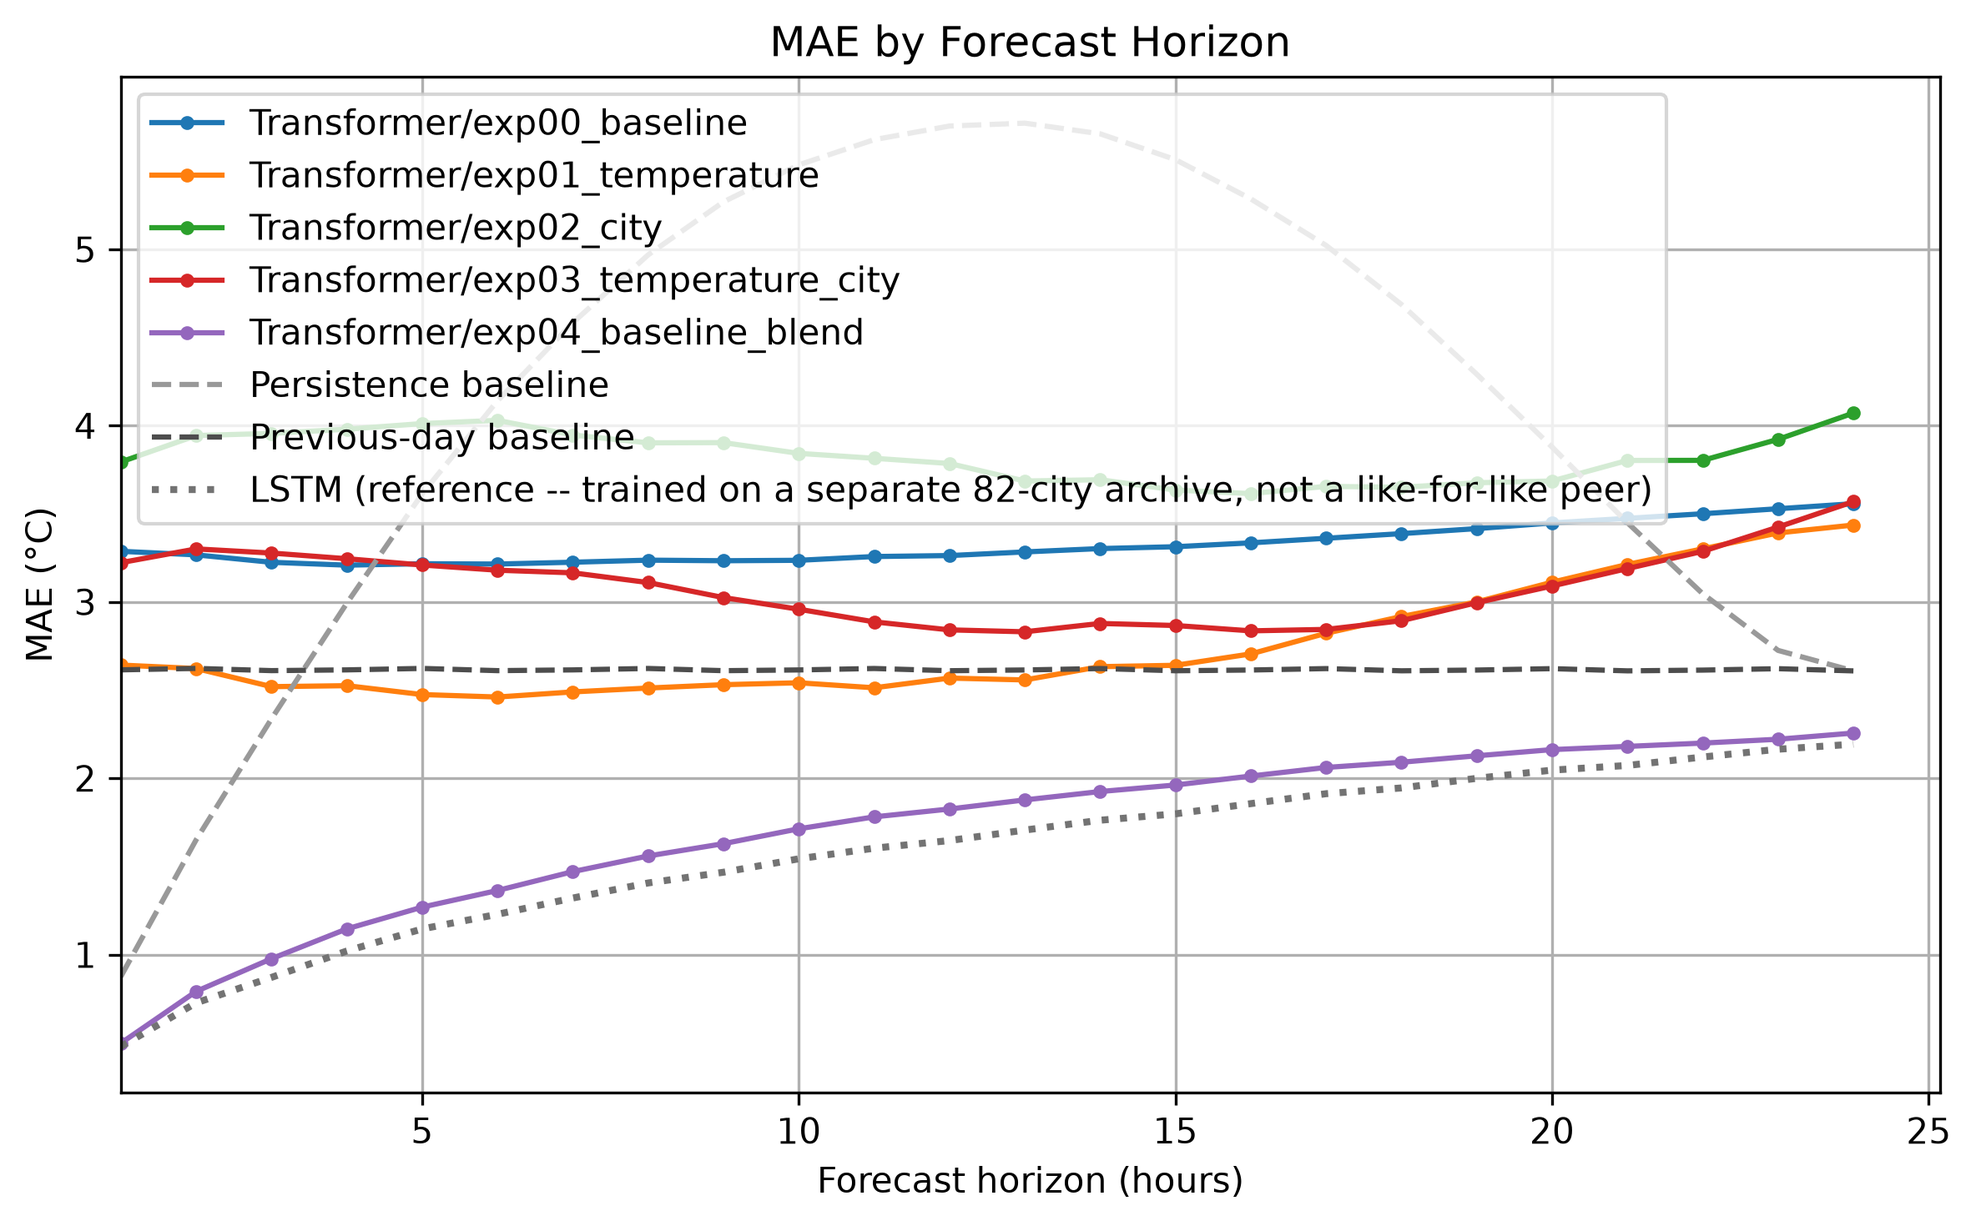
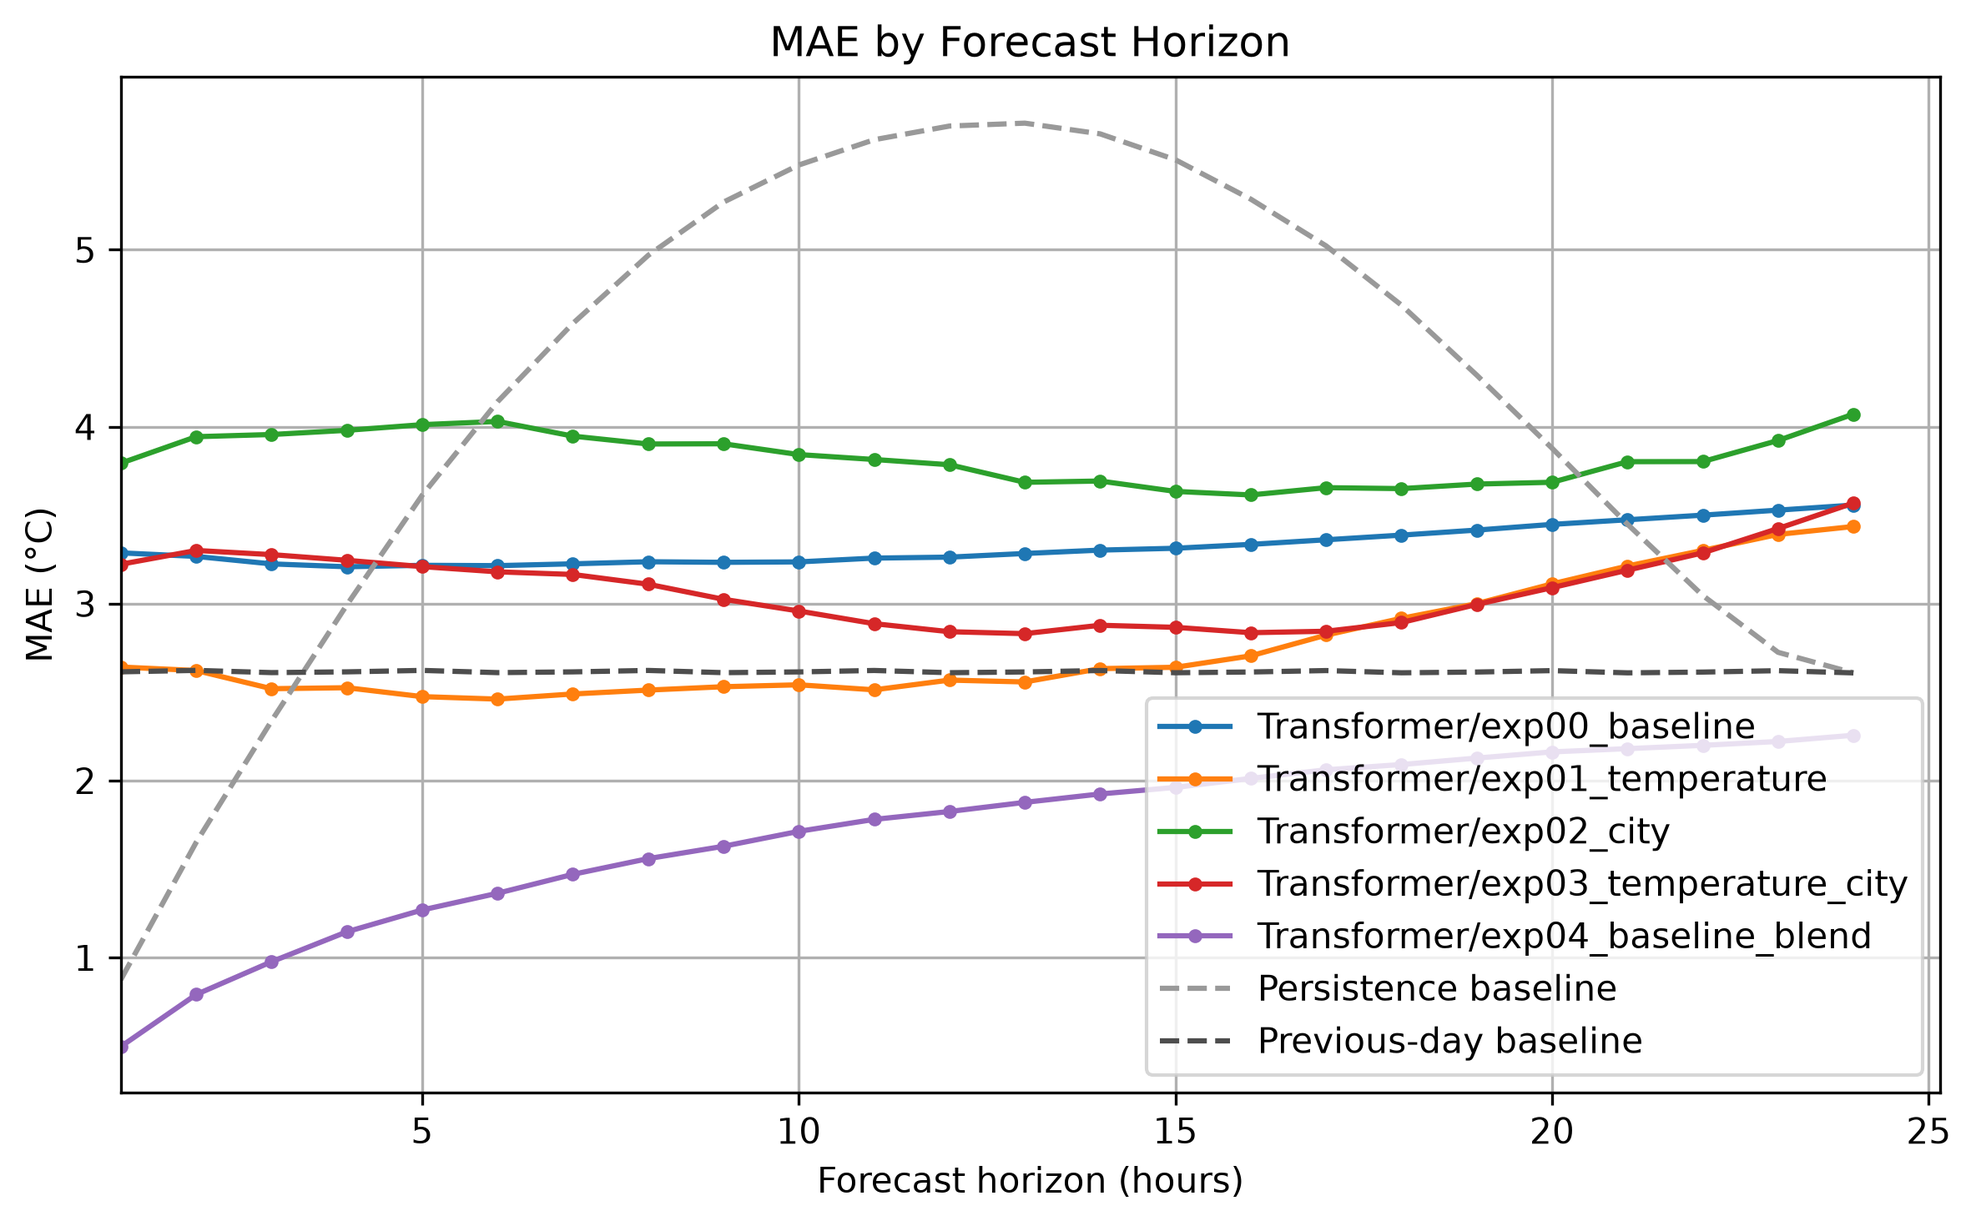
Let compare() target specific runs with custom labels, handle old-format LSTM metrics
compare()'s model_names entries now accept "Model/name@<run>" for a
specific experiment directory and (entry, label) tuples for a
caller-chosen legend label, so the same model can be charted multiple
times -- e.g. several of Larry's own LSTM runs side by side. Labels
default to the model name.

load_row() now handles LSTM runs that predate the improved_model/
mae_by_hour schema: their scalar mae/rmse still appear in the summary
table and bar chart, they're cleanly skipped from the by-horizon overlay
with one explanatory line, and a single old-format entry no longer aborts
the whole comparison.

_load_reference_mae_by_hour() no longer bakes editorial wording about
training-set size into the legend label -- reference_metrics now accepts
a (path, label) tuple so the caller supplies that context instead.
include_baselines=True makes the persistence/previous-day dashed lines
the default (still asserted consistent across entries), and
DEFAULT_REFERENCE_METRICS is now None so compare_all() never pulls in
cross-track material without it being asked for explicitly.

Regenerates the transformer_ablation overlay (five configs plus the two
baselines only, no LSTM) and re-executes notebooks/results.ipynb.
Documents the new entry syntax in the README.

diff --git a/src/models/common/compare.py b/src/models/common/compare.py
@@ -1,13 +1,20 @@
-"""Builds a side-by-side LSTM vs Transformer metrics comparison for the report.
+"""Builds a side-by-side metrics comparison for the report.
 
-Loads each model's most recent experiment (the one with the highest timestamp
-that contains a metrics.json), writes a comparison table + bar chart to its
-own subfolder under models/comparison/, named after the models compared.
+Loads one run per entry -- by default each model's most recent run, or a
+caller-chosen specific run -- and writes a comparison table + bar chart to
+its own subfolder under models/comparison/, named after the entries
+compared.
 
-Every metrics.json in this project (both tracks) is nested under an
+Every current-format metrics.json (both tracks) is nested under an
 "improved_model" key holding overall_mae/overall_rmse/mae_by_hour/... (see
 src.models.common.evaluation.evaluate_and_save) -- load_row reads that
-shape, not a flat one.
+shape. Older LSTM runs predate this schema (see load_row's old_format
+branch) and are handled gracefully rather than rejected.
+
+Entry syntax accepted by compare()'s model_names list:
+    "Transformer/exp04_baseline_blend"          -- latest run, label = model name
+    "LSTM@2026-08-02_07-36-51"                   -- that specific run, label = model name
+    ("LSTM@2026-08-02_07-36-51", "LSTM final")   -- specific run, caller-chosen label
 """
 
 import json
@@ -27,16 +34,15 @@ MODEL_NAMES = None
 
 OUTPUT_DIR = MODEL_DIR / "comparison"
 
-# The saved LSTM's evaluation on the same 16-city test split every Transformer
-# experiment uses -- a fair per-horizon reference, even though the LSTM model
-# itself was originally trained on a separate, larger 82-city archive.
-DEFAULT_REFERENCE_METRICS = OUTPUT_DIR / "lstm_on_shared_test_split" / "metrics.json"
+# Cross-track material (e.g. the LSTM's evaluation on the shared test split)
+# is never pulled in automatically -- pass reference_metrics explicitly.
+DEFAULT_REFERENCE_METRICS = None
 
 OUTPUT_DIR.mkdir(parents=True, exist_ok=True)
 
 
-def _slugify(model_name):
-    return model_name.replace("/", "-")
+def _slugify(text):
+    return text.replace("/", "-").replace("@", "-")
 
 
 def discover_model_names():
@@ -101,17 +107,52 @@ def find_cached_experiment(model_name, config):
     return None
 
 
-def load_row(model_name):
-    experiment_dir = latest_experiment_with_metrics(model_name)
+def _parse_entry(entry):
+    """Normalizes one compare() model_names entry into (model_name,
+    experiment_id, label).
+
+    Accepted forms:
+        "Transformer/exp04_baseline_blend"          -- latest run, label = model name
+        "LSTM@2026-08-02_07-36-51"                   -- that specific run, label = model name
+        ("LSTM@2026-08-02_07-36-51", "LSTM final")   -- specific run, caller-chosen label
+
+    experiment_id is None when unspecified, meaning "resolve to the latest
+    run with a metrics.json" (see latest_experiment_with_metrics). This is
+    what lets multiple entries reference the same model -- e.g. two
+    different runs of "LSTM" -- as long as each is given its own label."""
+    if isinstance(entry, tuple):
+        entry_str, label = entry
+    else:
+        entry_str, label = entry, None
+
+    model_name, _, experiment_id = entry_str.partition("@")
+    experiment_id = experiment_id or None
+
+    if label is None:
+        label = model_name
+
+    return model_name, experiment_id, label
+
+
+def resolve_experiment_dir(model_name, experiment_id=None):
+    if experiment_id is None:
+        return latest_experiment_with_metrics(model_name)
+
+    experiment_dir = MODEL_DIR / model_name / "experiments" / experiment_id
+    return experiment_dir if (experiment_dir / "metrics.json").exists() else None
+
+
+def load_row(model_name, experiment_id=None, label=None):
+    experiment_dir = resolve_experiment_dir(model_name, experiment_id)
+    identifier = f"{model_name}@{experiment_id}" if experiment_id else model_name
+    label = label or model_name
 
     if experiment_dir is None:
-        print(f"No experiment with metrics.json found for {model_name}, skipping.")
+        print(f"No experiment with metrics.json found for {identifier}, skipping.")
         return None
 
     with open(experiment_dir / "metrics.json") as f:
         metrics = json.load(f)
-
-    improved_model = metrics.get("improved_model", {})
 
     epochs_trained = None
 
@@ -120,40 +161,68 @@ def load_row(model_name):
     if history_file.exists():
         epochs_trained = len(pd.read_csv(history_file))
 
+    if "improved_model" in metrics:
+        improved_model = metrics["improved_model"]
+        return {
+            "model": label,
+            "experiment": experiment_dir.name,
+            "mae": improved_model.get("overall_mae"),
+            "rmse": improved_model.get("overall_rmse"),
+            "mae_by_hour": improved_model.get("mae_by_hour"),
+            "persistence_mae_by_hour": metrics.get("persistence_baseline", {}).get("mae_by_hour"),
+            "previous_day_mae_by_hour": metrics.get("previous_day_baseline", {}).get("mae_by_hour"),
+            "epochs_trained": epochs_trained,
+            "old_format": False,
+        }
+
+    # Older LSTM runs predate the improved_model/mae_by_hour schema -- some
+    # are a flat {loss, mae, rmse}, others use different top-level key names
+    # entirely. Either way there's no per-horizon breakdown to overlay, but
+    # whatever scalar mae/rmse exists at the top level still belongs in the
+    # summary table and bar chart.
     return {
-        "model": model_name,
+        "model": label,
         "experiment": experiment_dir.name,
-        "mae": improved_model.get("overall_mae"),
-        "rmse": improved_model.get("overall_rmse"),
-        "mae_by_hour": improved_model.get("mae_by_hour"),
-        "persistence_mae_by_hour": metrics.get("persistence_baseline", {}).get("mae_by_hour"),
-        "previous_day_mae_by_hour": metrics.get("previous_day_baseline", {}).get("mae_by_hour"),
-        "epochs_trained": epochs_trained
+        "mae": metrics.get("mae"),
+        "rmse": metrics.get("rmse"),
+        "mae_by_hour": None,
+        "persistence_mae_by_hour": None,
+        "previous_day_mae_by_hour": None,
+        "epochs_trained": epochs_trained,
+        "old_format": True,
     }
 
 
-def _load_reference_mae_by_hour(reference_metrics):
+def _parse_reference(reference_metrics):
+    """Normalizes compare()'s reference_metrics into (path, label). Accepts
+    a bare path (label defaults to its parent directory's name) or a
+    (path, label) tuple for a caller-chosen label."""
+    if isinstance(reference_metrics, tuple):
+        path, label = reference_metrics
+    else:
+        path, label = reference_metrics, None
+
+    if label is None:
+        label = Path(path).parent.name
+
+    return path, label
+
+
+def _load_reference_mae_by_hour(reference_path):
     """Reads improved_model.mae_by_hour from an external metrics.json (e.g.
-    models/comparison/lstm_on_shared_test_split/metrics.json) plus a label
-    built from its model_path, so the overlay can show a model that isn't
-    one of `model_names`'s own experiments."""
-    with open(reference_metrics) as f:
+    models/comparison/lstm_on_shared_test_split/metrics.json), so the
+    overlay can show a run that isn't one of `model_names`'s own entries."""
+    with open(reference_path) as f:
         metrics = json.load(f)
 
-    mae_by_hour = metrics.get("improved_model", {}).get("mae_by_hour")
-
-    model_path = metrics.get("model_path")
-    base_name = Path(model_path).parent.parent.name if model_path else Path(reference_metrics).parent.name
-
-    return mae_by_hour, f"{base_name} (reference -- trained on a separate 82-city archive, not a like-for-like peer)"
+    return metrics.get("improved_model", {}).get("mae_by_hour")
 
 
 def _assert_consistent_baseline(baseline_name, mae_by_hour_by_model):
-    """`mae_by_hour_by_model` is {model_name: mae_by_hour}. Every experiment
-    being compared scores this baseline on the same test windows, so their
+    """`mae_by_hour_by_model` is {label: mae_by_hour}. Every entry being
+    compared scores this baseline on the same test windows, so their
     copies must be numerically identical; a mismatch means the runs weren't
-    actually evaluated on the same data, which would silently invalidate
-    the comparison."""
+    actually evaluated on the same data."""
     items = list(mae_by_hour_by_model.items())
     if len(items) < 2:
         return
@@ -163,29 +232,45 @@ def _assert_consistent_baseline(baseline_name, mae_by_hour_by_model):
         if not np.allclose(values, reference_values):
             raise AssertionError(
                 f"{baseline_name}.mae_by_hour differs between '{reference_model}' and "
-                f"'{model_name}' -- these experiments were not evaluated on the same "
+                f"'{model_name}' -- these entries were not evaluated on the same "
                 "test windows, so their metrics cannot be compared."
             )
 
 
-def compare(model_names=MODEL_NAMES, name=None, reference_metrics=None):
-    """`reference_metrics`, if given, is a path to another model's
-    metrics.json (e.g. models/comparison/lstm_on_shared_test_split/metrics.json)
-    whose improved_model.mae_by_hour is added to the by-horizon overlay as a
-    dashed line, labelled as a reference so it isn't mistaken for one of
-    `model_names`'s own experiments."""
+def compare(model_names=MODEL_NAMES, name=None, reference_metrics=None, include_baselines=True):
+    """`model_names` is a list of entries -- see the module docstring for
+    the accepted "Model", "Model@run_id", and (entry, label) forms.
+
+    `include_baselines`, when True (the default), adds the persistence and
+    previous-day baselines to the by-horizon overlay as dashed reference
+    lines, asserting first that every entry's copy of each baseline is
+    numerically identical (see _assert_consistent_baseline). Pass False to
+    omit them.
+
+    `reference_metrics`, if given, is a path to another run's metrics.json
+    (e.g. models/comparison/lstm_on_shared_test_split/metrics.json), or a
+    (path, label) tuple for a caller-chosen legend label -- otherwise the
+    label defaults to the path's parent directory name. Its
+    improved_model.mae_by_hour is added to the overlay as a dashed line, so
+    the overlay can show a run that isn't one of `model_names`'s own
+    entries."""
     if model_names is None:
         model_names = discover_model_names()
 
+    entries = [_parse_entry(entry) for entry in model_names]
+
     rows = [
         row
-        for row in (load_row(model_name) for model_name in model_names)
+        for row in (
+            load_row(model_name, experiment_id, label)
+            for model_name, experiment_id, label in entries
+        )
         if row is not None
     ]
 
     if not rows:
         raise FileNotFoundError(
-            "No experiments with metrics.json found for any model. "
+            "No experiments with metrics.json found for any entry. "
             "Train the LSTM and Transformer models first."
         )
 
@@ -193,24 +278,35 @@ def compare(model_names=MODEL_NAMES, name=None, reference_metrics=None):
         row["model"]: row["mae_by_hour"] for row in rows if row["mae_by_hour"]
     }
 
-    # Baselines must be identical across every experiment being compared --
-    # they're scored on the same test windows -- so this both verifies that
-    # assumption and picks a representative copy to plot.
-    persistence_by_model = {
-        row["model"]: row["persistence_mae_by_hour"] for row in rows if row["persistence_mae_by_hour"]
-    }
-    previous_day_by_model = {
-        row["model"]: row["previous_day_mae_by_hour"] for row in rows if row["previous_day_mae_by_hour"]
-    }
-    _assert_consistent_baseline("persistence_baseline", persistence_by_model)
-    _assert_consistent_baseline("previous_day_baseline", previous_day_by_model)
-    persistence_mae_by_hour = next(iter(persistence_by_model.values()), None)
-    previous_day_mae_by_hour = next(iter(previous_day_by_model.values()), None)
+    skipped_from_overlay = [row["model"] for row in rows if not row["mae_by_hour"]]
+    if skipped_from_overlay:
+        print(
+            "Skipped from the by-horizon overlay (no per-horizon mae_by_hour data, "
+            f"likely an old-format run): {', '.join(skipped_from_overlay)}"
+        )
+
+    persistence_mae_by_hour = None
+    previous_day_mae_by_hour = None
+
+    if include_baselines:
+        # Baselines must be identical across every entry being compared --
+        # they're scored on the same test windows -- so this both verifies
+        # that assumption and picks a representative copy to plot.
+        persistence_by_model = {
+            row["model"]: row["persistence_mae_by_hour"] for row in rows if row["persistence_mae_by_hour"]
+        }
+        previous_day_by_model = {
+            row["model"]: row["previous_day_mae_by_hour"] for row in rows if row["previous_day_mae_by_hour"]
+        }
+        _assert_consistent_baseline("persistence_baseline", persistence_by_model)
+        _assert_consistent_baseline("previous_day_baseline", previous_day_by_model)
+        persistence_mae_by_hour = next(iter(persistence_by_model.values()), None)
+        previous_day_mae_by_hour = next(iter(previous_day_by_model.values()), None)
 
     table_columns = ["model", "experiment", "mae", "rmse", "epochs_trained"]
     comparison_df = pd.DataFrame(rows, columns=table_columns)
 
-    comparison_name = name or "_vs_".join(_slugify(m) for m in model_names)
+    comparison_name = name or "_vs_".join(_slugify(label) for _, _, label in entries)
     comparison_dir = OUTPUT_DIR / comparison_name
     comparison_dir.mkdir(parents=True, exist_ok=True)
 
@@ -259,8 +355,8 @@ def compare(model_names=MODEL_NAMES, name=None, reference_metrics=None):
             hours = np.arange(1, len(mae_by_hour) + 1)
             ax.plot(hours, mae_by_hour, marker="o", markersize=3, label=model_name)
 
-        # All three reference lines are dashed and muted grey (as opposed to
-        # the trained configs' solid, colorful lines), in different shades/
+        # All reference lines are dashed and muted grey (as opposed to the
+        # trained configs' solid, colorful lines), in different shades/
         # styles so they stay distinguishable from each other too.
         if persistence_mae_by_hour:
             hours = np.arange(1, len(persistence_mae_by_hour) + 1)
@@ -273,13 +369,14 @@ def compare(model_names=MODEL_NAMES, name=None, reference_metrics=None):
                      linewidth=1.5, label="Previous-day baseline")
 
         if reference_metrics is not None:
-            reference_mae_by_hour, reference_label = _load_reference_mae_by_hour(reference_metrics)
+            reference_path, reference_label = _parse_reference(reference_metrics)
+            reference_mae_by_hour = _load_reference_mae_by_hour(reference_path)
             if reference_mae_by_hour:
                 hours = np.arange(1, len(reference_mae_by_hour) + 1)
                 ax.plot(hours, reference_mae_by_hour, linestyle=":", color="0.45",
                          linewidth=2, label=reference_label)
             else:
-                print(f"No improved_model.mae_by_hour found in {reference_metrics}, skipping reference overlay.")
+                print(f"No improved_model.mae_by_hour found in {reference_path}, skipping reference overlay.")
 
         ax.set_xlabel("Forecast horizon (hours)")
         ax.set_ylabel("MAE (°C)")
@@ -305,14 +402,15 @@ def compare_all(reference_metrics=DEFAULT_REFERENCE_METRICS):
     """Compares every model that has at least one experiment with a
     metrics.json, in one combined table + chart under models/comparison/all/.
 
-    `reference_metrics` defaults to the saved LSTM's evaluation on the
-    shared 16-city test split (see src.models.common.evaluate_saved_lstm),
-    so the by-horizon overlay includes it as a labelled reference. Pass
-    None to omit it."""
+    `reference_metrics` defaults to None -- cross-track material (e.g. the
+    LSTM's evaluation on the shared 16-city test split) is never pulled in
+    automatically; pass it explicitly (see compare())."""
 
-    if reference_metrics is not None and not Path(reference_metrics).exists():
-        print(f"Reference metrics not found at {reference_metrics}, skipping reference overlay.")
-        reference_metrics = None
+    if reference_metrics is not None:
+        reference_path, _ = _parse_reference(reference_metrics)
+        if not Path(reference_path).exists():
+            print(f"Reference metrics not found at {reference_path}, skipping reference overlay.")
+            reference_metrics = None
 
     return compare(discover_model_names(), name="all", reference_metrics=reference_metrics)
 

diff --git a/README.md b/README.md
@@ -147,6 +147,37 @@ MAE-by-horizon overlay chart across every trained model:
 python -m src.models.common.compare
 ```
 
+For a specific subset of runs, call `compare()` directly with a list of entries.
+Each entry is either `"Model/name"` (latest run, labelled with the model name),
+`"Model/name@<experiment-timestamp>"` (that specific run), or a
+`(entry, "custom label")` tuple -- which is how to chart several runs of the same
+model side by side, since each needs its own label:
+
+```python
+from src.models.common.compare import compare
+
+compare(
+    ["Transformer/exp00_baseline", "Transformer/exp01_temperature",
+     "Transformer/exp02_city", "Transformer/exp03_temperature_city",
+     "Transformer/exp04_baseline_blend"],
+    name="transformer_ablation",
+)
+
+# Two of Larry's own LSTM runs, explicitly labelled:
+compare(
+    [("LSTM@2026-08-02_07-36-51", "LSTM (multi-horizon)"),
+     ("LSTM@2026-07-18_14-32-02", "LSTM (h=3 era)")],
+    name="lstm_runs",
+    reference_metrics="models/comparison/lstm_on_shared_test_split/metrics.json",
+)
+```
+
+`reference_metrics` overlays one more run (a path, or a `(path, label)` tuple)
+without it counting as one of the compared entries -- e.g. a cross-track model
+evaluated on the same test windows. `compare_all()` (the `python -m
+src.models.common.compare` default) never adds a reference automatically; pass
+one explicitly when cross-track material belongs in the chart.
+
 `notebooks/results.ipynb` walks through the five Transformer experiments' results in
 more detail, alongside the LSTM comparison.
 
